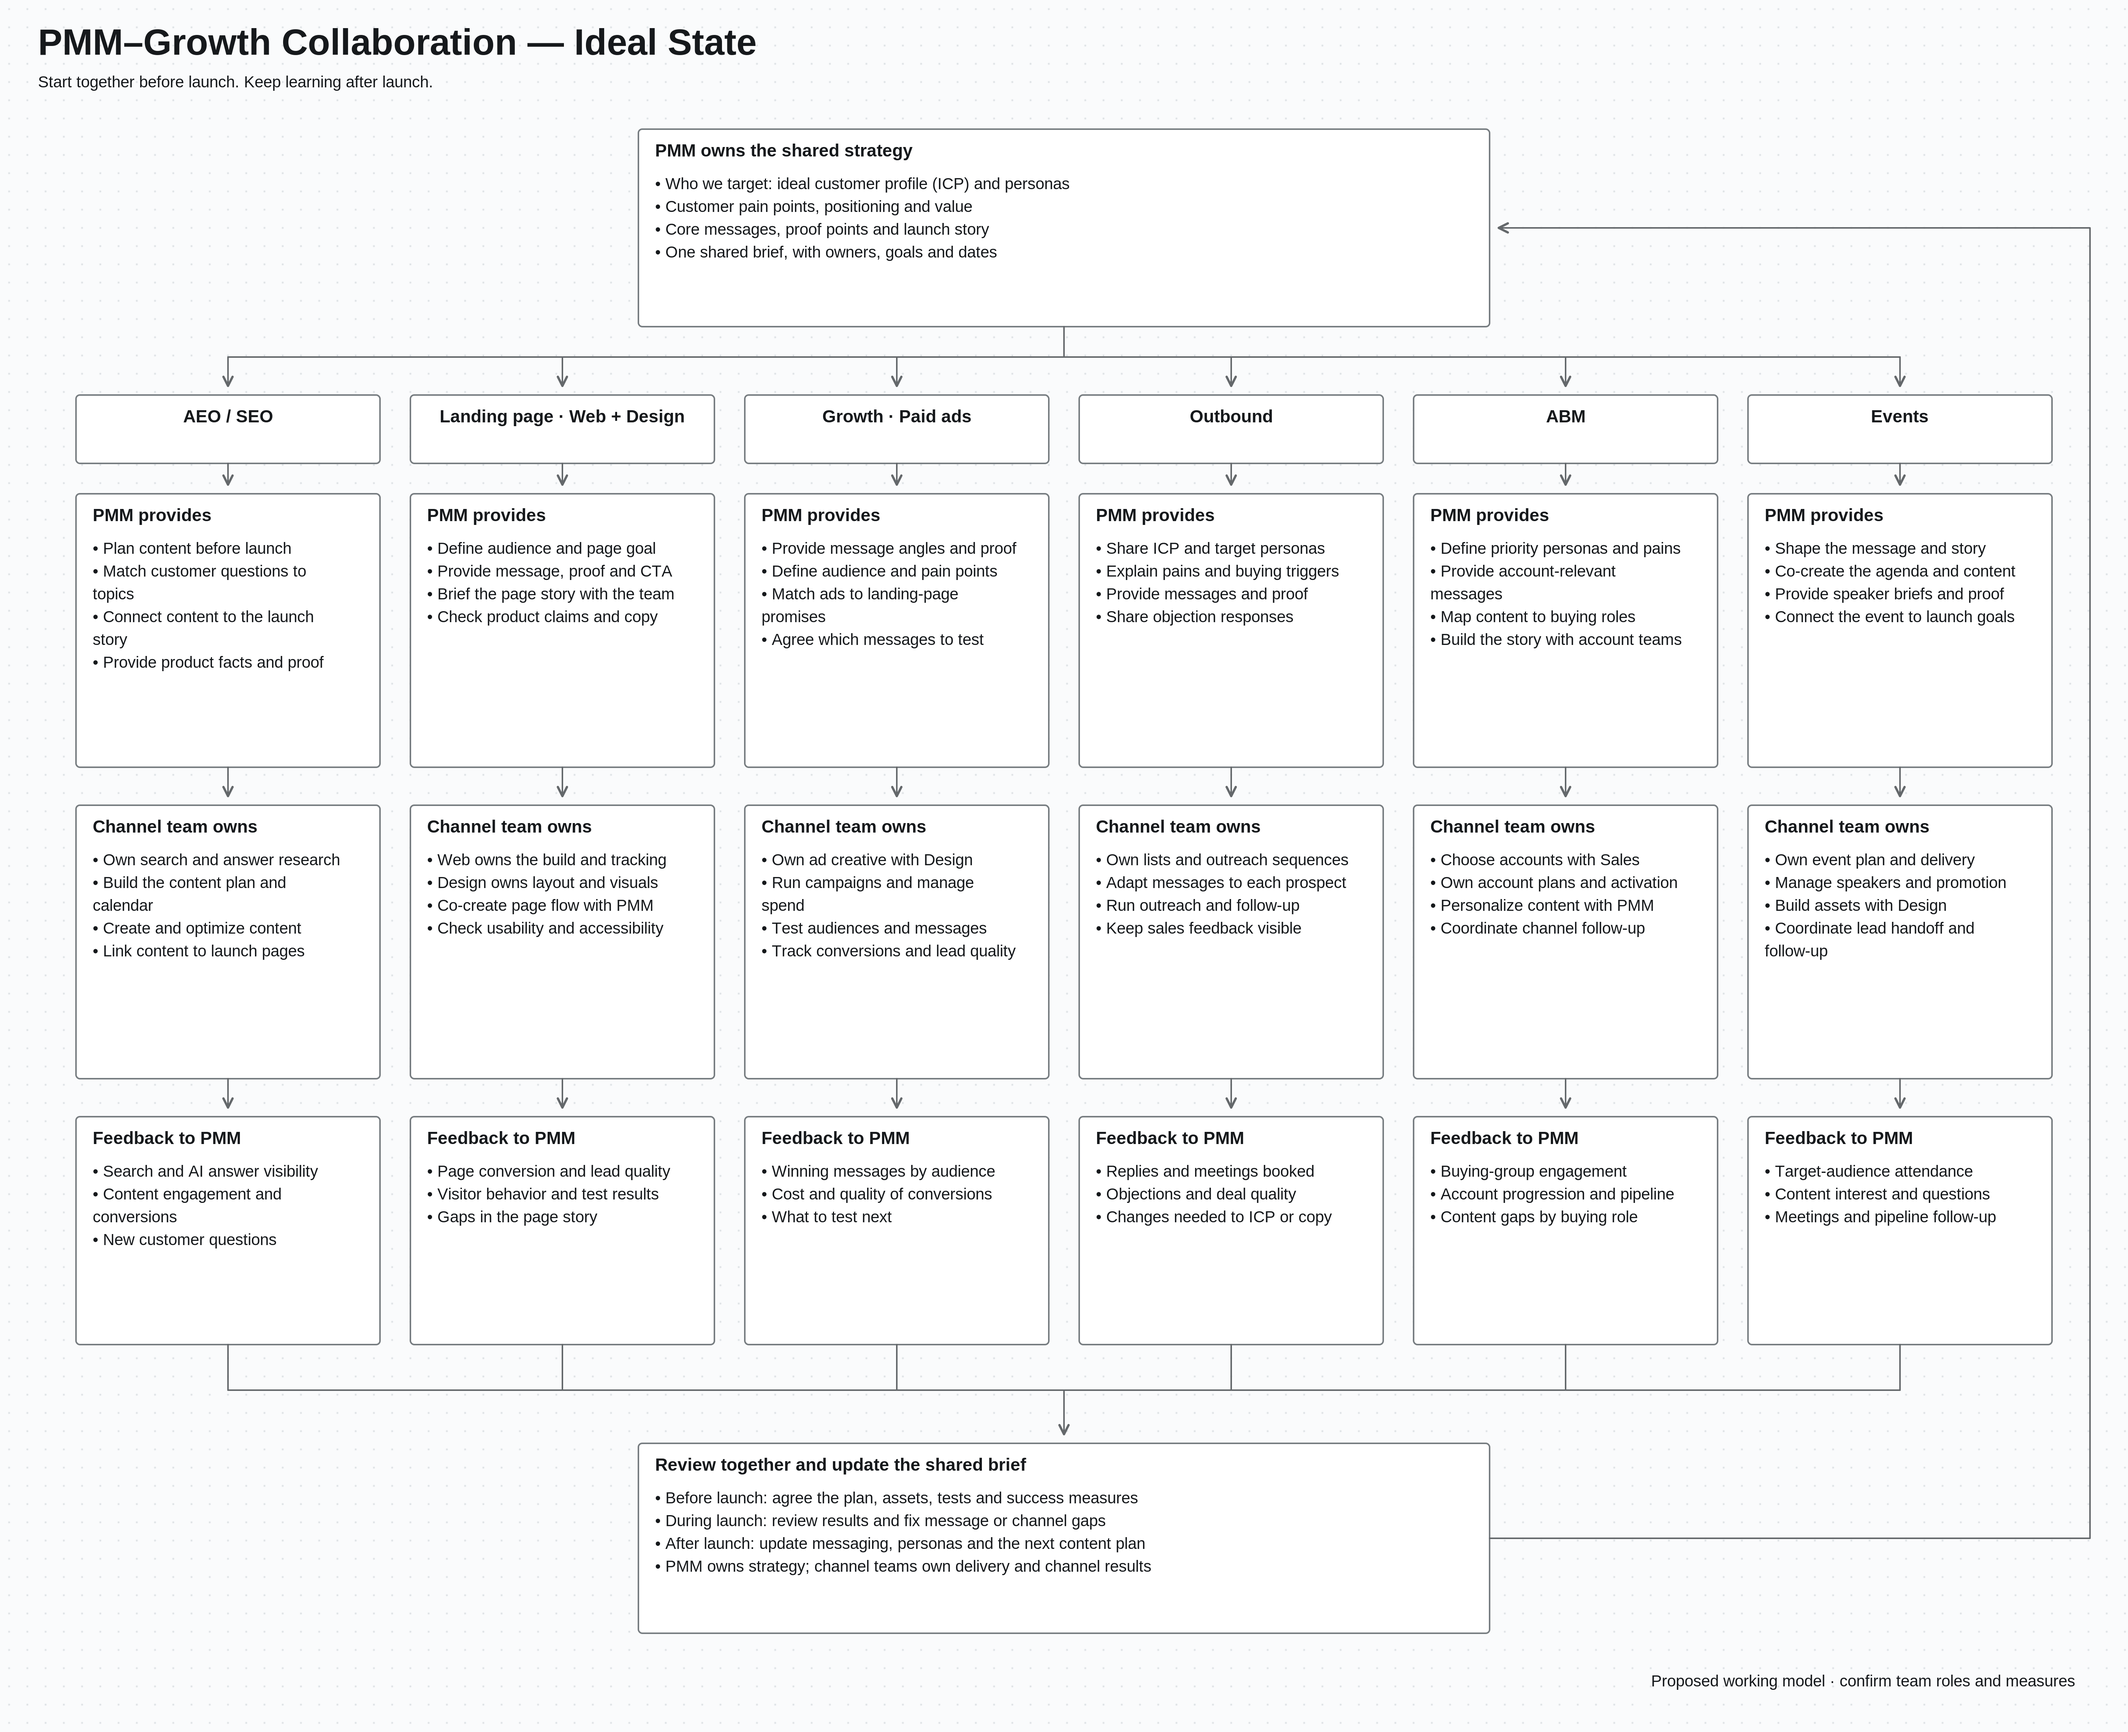
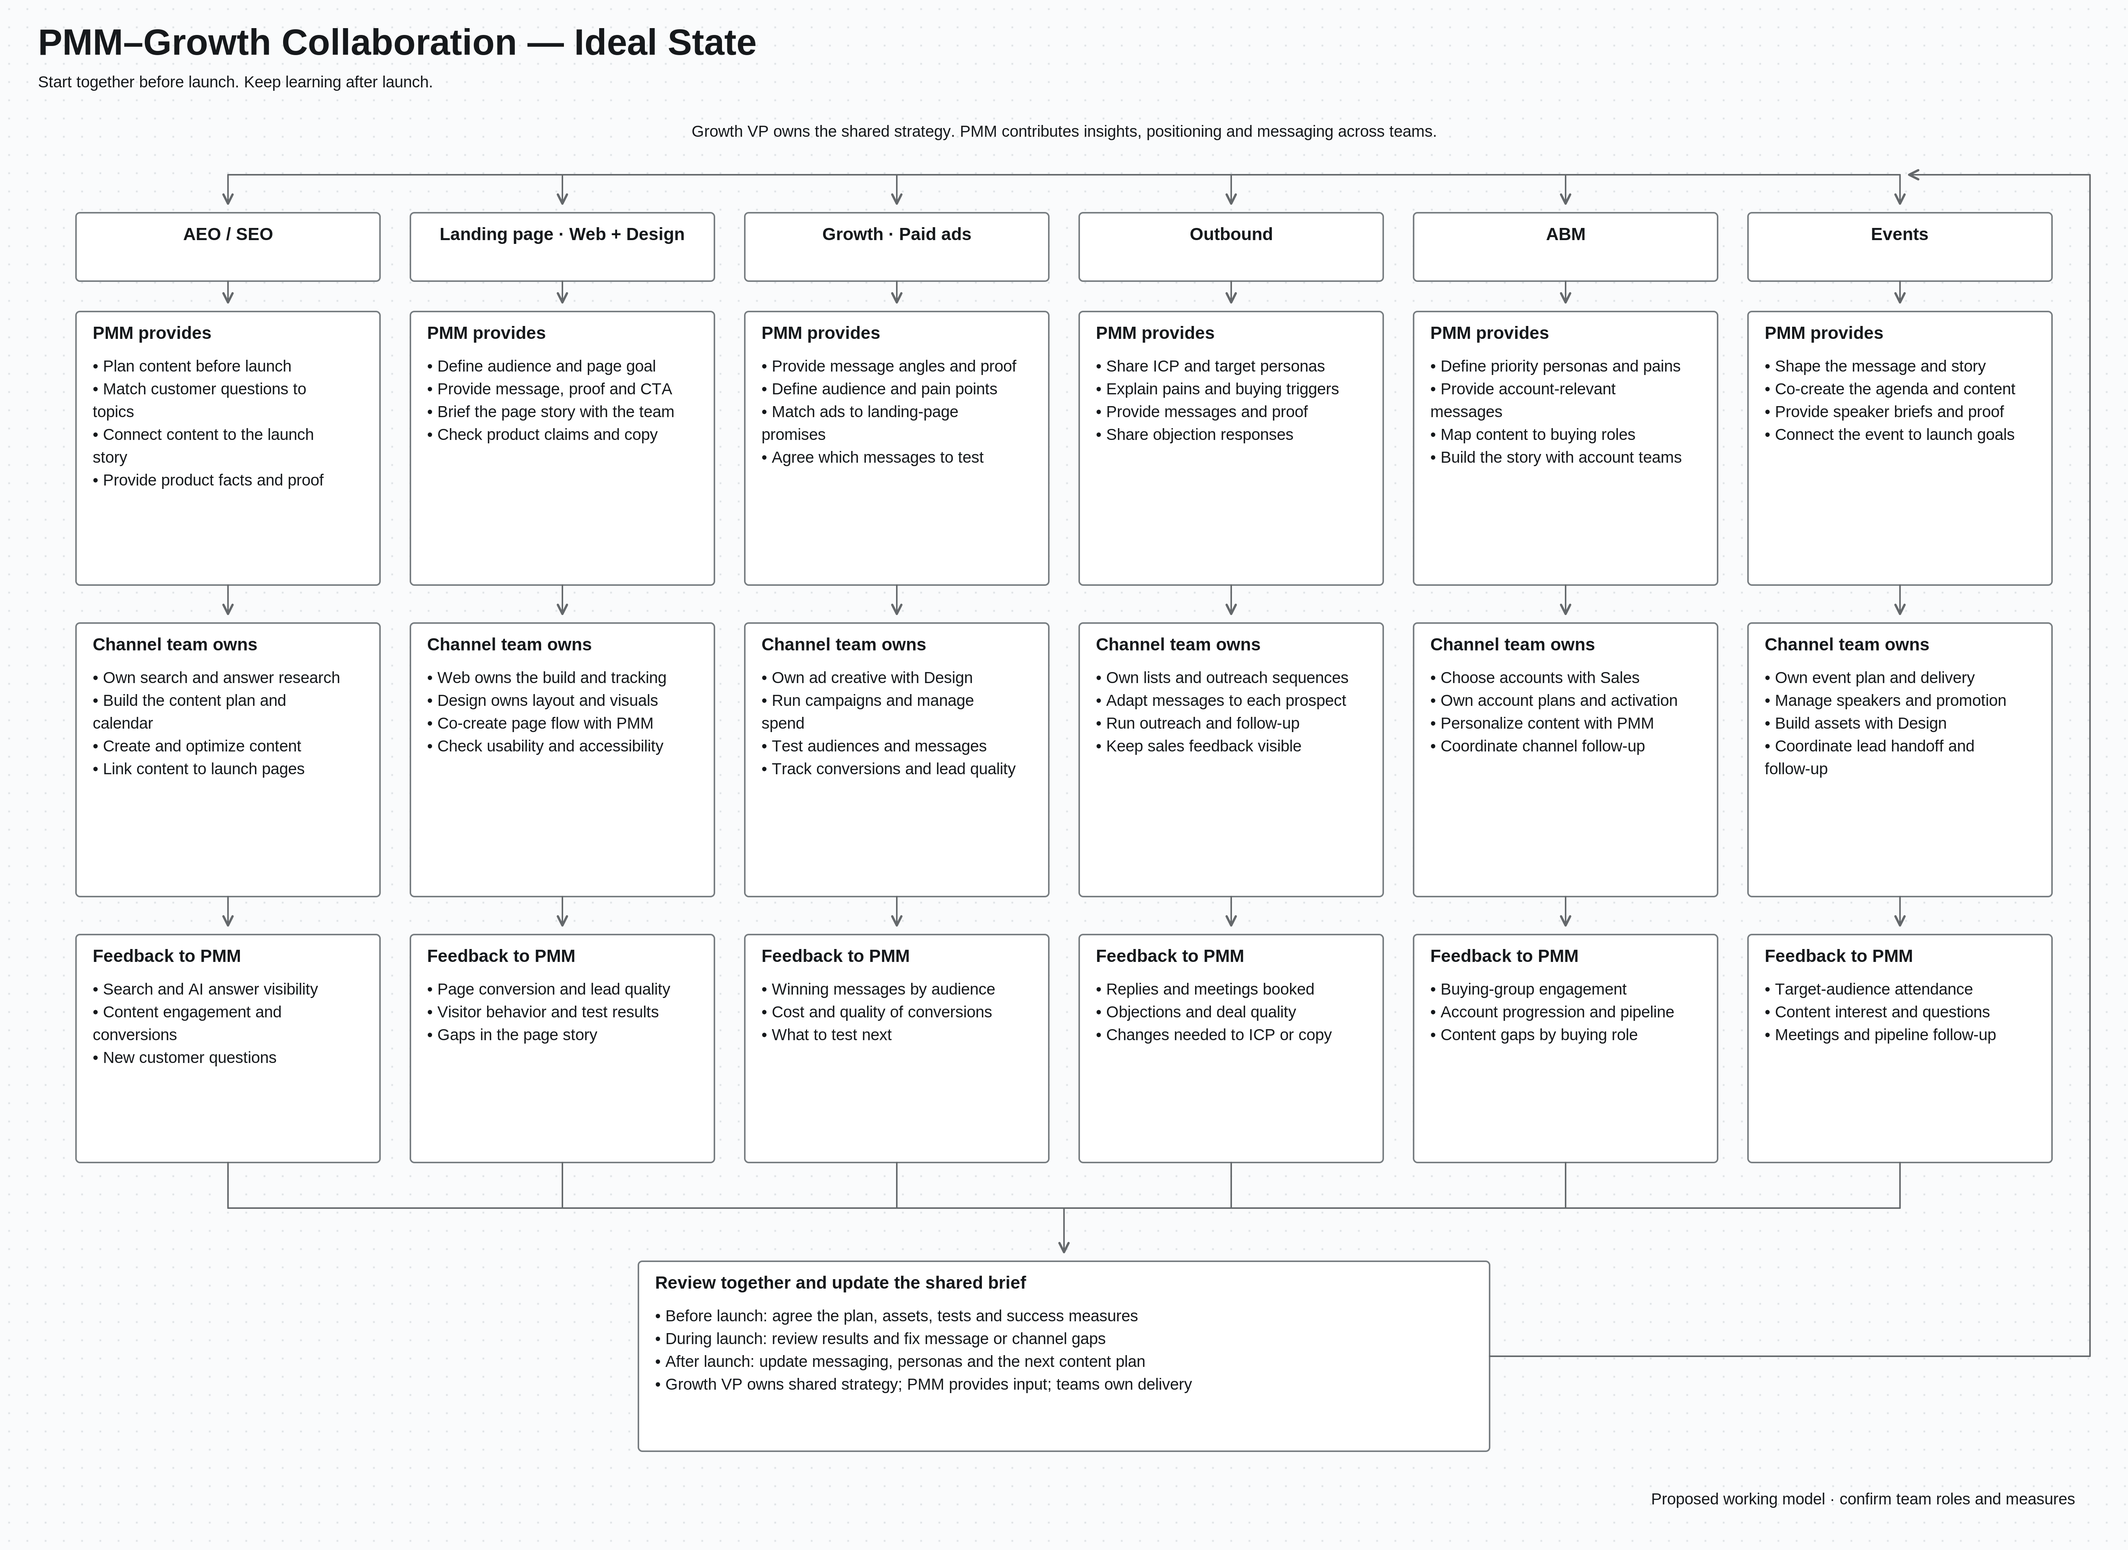
Clarify Growth VP strategy ownership and PMM contribution

diff --git a/operations/pmm-growth-collaboration-ideal-state.md b/operations/pmm-growth-collaboration-ideal-state.md
@@ -2,12 +2,13 @@
 
 ![PMM and Growth collaboration model](pmm-growth-collaboration-ideal-state.svg)
 
-[Vector diagram (SVG)](pmm-growth-collaboration-ideal-state.svg) · [HQ PNG, 5600 × 4560](pmm-growth-collaboration-ideal-state.png)
+[Vector diagram (SVG)](pmm-growth-collaboration-ideal-state.svg) · [HQ PNG, 5600 × 4080](pmm-growth-collaboration-ideal-state.png)
 
 ## How it works
 
 - Start planning together before launch.
-- PMM owns the shared product story, target audience, and core messages.
+- The Growth VP owns the shared Growth strategy and priorities.
+- PMM feeds customer insights, ICP and persona input, positioning, messaging, and launch context into the work.
 - Each Growth team helps shape the plan and owns delivery in its channel.
 - Teams adapt the message to their channel while keeping product claims accurate.
 - Share results with PMM so the story, content, and targeting improve over time.
@@ -15,7 +16,7 @@
 
 ## One shared brief
 
-PMM brings a brief to the teams early. Build it together as new evidence comes in.
+The Growth VP sets the shared direction. PMM contributes product and customer context to a brief built with the teams. Update it together as new evidence comes in.
 
 - **Audience:** ideal customer profile (ICP), personas, pains, and buying triggers.
 - **Story:** customer problem, product value, key messages, and proof.
@@ -162,6 +163,7 @@ Account-based marketing (ABM) focuses coordinated marketing and sales work on se
 - **Before launch:** agree on the brief, content plan, landing page, channel tests, owners, and success measures.
 - **During launch:** review results, monitor product changes, and fix message or channel gaps.
 - **After launch:** compare results with goals and update messaging, personas, and the next content plan.
+- Review channel results with the Growth VP. Use the findings to inform Growth priorities and PMM inputs.
 - Keep one current brief and link to channel plans rather than copying them into separate versions.
 - Agree a review schedule that fits the size of the work.
 
@@ -172,4 +174,4 @@ Account-based marketing (ABM) focuses coordinated marketing and sales work on se
 - Includes all six requested teams, pre-launch planning, delivery ownership, and feedback to PMM.
 - Uses simple wording, bullet points, Arial with font fallbacks, and no sticky notes.
 - The SVG uses evenly spaced columns and stays sharp when zoomed.
-- The PNG is exported at 5600 × 4560 pixels.
+- The PNG is exported at 5600 × 4080 pixels.
